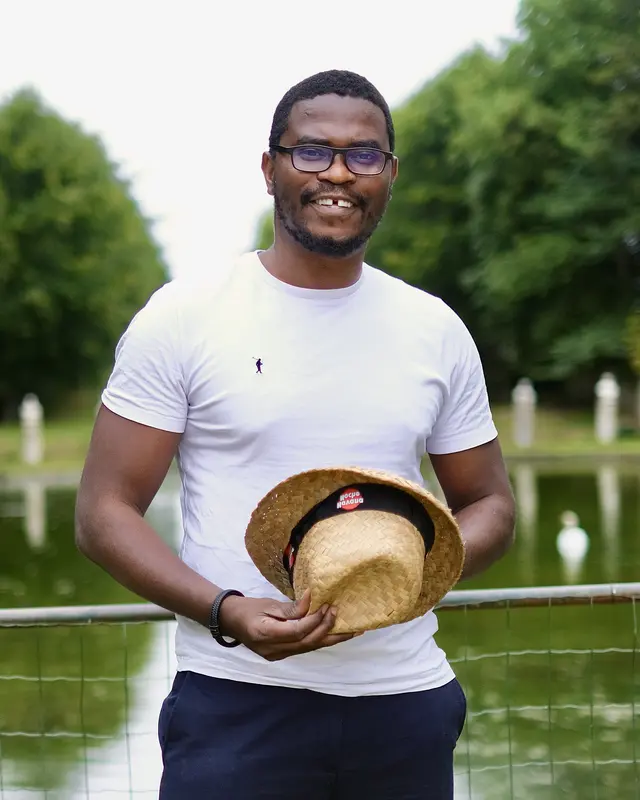
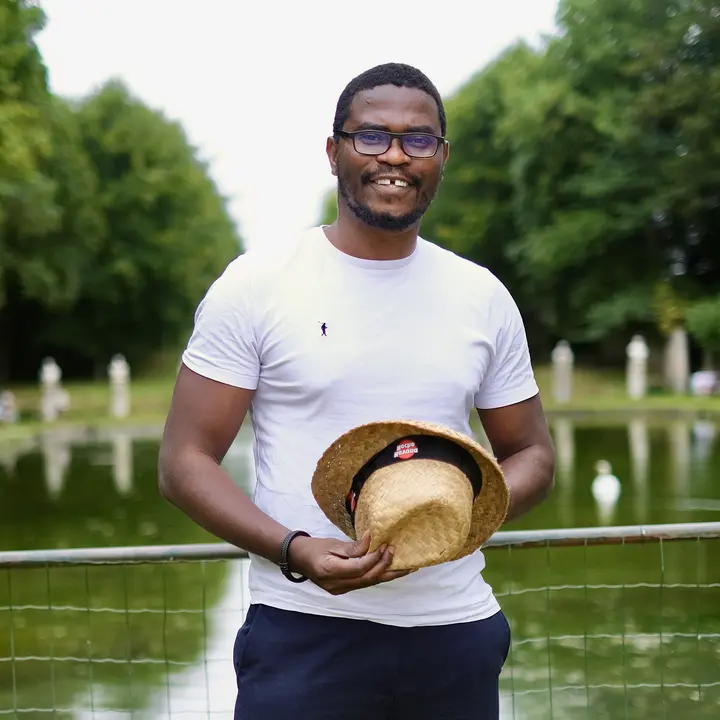
Profile photo: wide square crop that keeps the background
Claude-Session: https://claude.ai/code/session_015tJeZgR2MiLHhgBek5YGbt

diff --git a/index.html b/index.html
@@ -22,7 +22,7 @@
 <main id="main"><div class="wrap">
 <h2 id="home" class="vh">Home</h2>
 <div class="profile">
-<aside class="profile-side" aria-label="Profile" data-render="home-side"><picture><source media="(max-width:760px)" srcset="assets/hope-donglo-square.webp" width="240" height="240"><img class="photo" src="assets/hope-donglo-portrait.webp" width="640" height="800" alt="Hope Donglo smiling outdoors in glasses and a white T-shirt, holding a straw hat, with a pond and trees behind"></picture><p class="name">Hope Donglo</p><p class="role">Lecturer in Physics</p><ul class="side-links"><li><a href="https://scholar.google.com/citations?user=QW32BboAAAAJ&amp;hl=en" rel="noopener">Google Scholar ↗</a></li><li><a href="https://orcid.org/0009-0003-6142-8780" rel="noopener">ORCID ↗</a></li><li><a href="https://github.com/hhdonglo" rel="noopener">GitHub ↗</a></li><li><a href="https://www.linkedin.com/in/hopedonglo" rel="noopener">LinkedIn ↗</a></li><li><a href="cv.html">CV</a></li></ul></aside>
+<aside class="profile-side" aria-label="Profile" data-render="home-side"><img class="photo" src="assets/hope-donglo-portrait.webp" width="720" height="720" alt="Hope Donglo smiling outdoors in glasses and a white T-shirt, holding a straw hat, with a pond and trees behind"><p class="name">Hope Donglo</p><p class="role">Lecturer in Physics</p><ul class="side-links"><li><a href="https://scholar.google.com/citations?user=QW32BboAAAAJ&amp;hl=en" rel="noopener">Google Scholar ↗</a></li><li><a href="https://orcid.org/0009-0003-6142-8780" rel="noopener">ORCID ↗</a></li><li><a href="https://github.com/hhdonglo" rel="noopener">GitHub ↗</a></li><li><a href="https://www.linkedin.com/in/hopedonglo" rel="noopener">LinkedIn ↗</a></li><li><a href="cv.html">CV</a></li></ul></aside>
 <div class="profile-main">
 <section id="about" aria-label="About" data-render="home-intro"><article class="ov-card lead-card"><p class="intro">I am a Lecturer in the Department of Physics at the University of Ghana and a theoretical nuclear physicist. I earned a PhD in Theoretical Nuclear Physics from Université de Caen Normandie, France, as a Marie Skłodowska-Curie COFUND Fellow within the CEA NUMERICS doctoral programme. Prior to this, I completed an Erasmus Mundus Joint Master's in Nuclear Physics across universities in Spain, Italy, and France.</p><p class="intro">My research focuses on superheavy-element synthesis, nuclear reaction modelling, uncertainty quantification, and scientific computing. I study heavy-ion reactions and compound-nucleus formation, and contribute to the development of the KEWPIE3 code for fusion-evaporation reaction studies. My interests also include scientific software development, data science, machine learning, and data engineering.</p></article></section>
 <div class="highlights" data-render="home-highlights"><article class="ov-card"><h2 class="h4">Superheavy-Element Synthesis</h2><p>Research on the reaction mechanisms governing the synthesis of superheavy elements, including heavy-ion fusion, compound-nucleus formation, and uncertainty quantification in reaction models.</p><p><a class="btn" href="research.html">Explore Research</a></p></article><article class="ov-card"><h2 class="h4">Data Engineering and Scientific Computing</h2><p>Development of data pipelines, scientific software, computational workflows, and machine learning applications for research and analytics.</p><p><a class="btn" href="data-engineering.html">Explore Data Science, ML and Engineering</a></p></article></div>

diff --git a/assets/render.js b/assets/render.js
@@ -163,7 +163,7 @@ R.page=function(el,d,site){
 };
 /* ---- home page ---- */
 R["home-side"]=function(el,d,site){
-  el.innerHTML='<picture><source media="(max-width:760px)" srcset="assets/hope-donglo-square.webp" width="240" height="240"><img class="photo" src="assets/hope-donglo-portrait.webp" width="640" height="800" alt="Hope Donglo smiling outdoors in glasses and a white T-shirt, holding a straw hat, with a pond and trees behind"></picture><p class="name">'+md(d.eyebrow)+'</p><p class="role">'+md(d.role)+'</p>'+(d.affiliation?'<p class="role">'+md(d.affiliation)+'</p>':"")+'<ul class="side-links">'+site.profiles.map(function(p){return '<li>'+link(p.url,esc(p.label)+" &#8599;",true)+'</li>'}).concat((d.side_links||[]).map(function(l){return '<li>'+link(l.url,esc(l.label))+'</li>'})).join("")+'</ul>';
+  el.innerHTML='<img class="photo" src="assets/hope-donglo-portrait.webp" width="720" height="720" alt="Hope Donglo smiling outdoors in glasses and a white T-shirt, holding a straw hat, with a pond and trees behind"><p class="name">'+md(d.eyebrow)+'</p><p class="role">'+md(d.role)+'</p>'+(d.affiliation?'<p class="role">'+md(d.affiliation)+'</p>':"")+'<ul class="side-links">'+site.profiles.map(function(p){return '<li>'+link(p.url,esc(p.label)+" &#8599;",true)+'</li>'}).concat((d.side_links||[]).map(function(l){return '<li>'+link(l.url,esc(l.label))+'</li>'})).join("")+'</ul>';
 };
 R["home-statement"]=function(el,d){el.innerHTML=md(d.statement)};
 R["home-working"]=function(el,d){el.innerHTML='<h2 class="h3" id="working">'+md(d.working_title)+'</h2><div class="working-cols">'+d.working.map(function(g){return '<div><h3 class="h4"><a href="'+esc(g.url)+'">'+md(g.title)+'</a></h3><ul>'+g.items.map(function(i){return '<li>'+link(i.url,esc(i.label))+'</li>'}).join("")+'</ul></div>'}).join("")+'</div>'};

diff --git a/assets/site.css b/assets/site.css
@@ -453,11 +453,13 @@ nav.jump.js .sub a{padding-left:2rem;border-top:1px solid var(--border);white-sp
 /* phone: compact profile row */
 @media (max-width:760px){
 .profile{margin-top:.8rem;gap:.9rem}
-.profile-side{display:grid;grid-template-columns:104px 1fr;column-gap:1rem;align-content:start;align-items:center}
-.profile-side picture{grid-column:1;grid-row:1/span 3;display:block}.profile-side .photo{width:104px;height:104px;max-width:none;object-fit:cover;object-position:center;border-radius:12px}
+.profile-side{display:grid;grid-template-columns:120px 1fr;column-gap:1rem;align-content:start;align-items:center}
+.profile-side .photo{grid-column:1;grid-row:1/span 3;width:120px;height:120px;max-width:none;object-fit:cover;object-position:center;border-radius:12px}
 .profile-side .name,.profile-side .role{grid-column:2;margin:0}
 .profile-side .name{font-size:1.2rem;align-self:end}
 .profile-side .role+.role{margin-top:0}
 .profile-side .role:nth-of-type(2){align-self:start}
 .profile-side .side-links{grid-column:1/-1;display:flex;flex-wrap:wrap;gap:0 .9rem;margin:.5rem 0 0;padding:0;list-style:none}
 }
+
+.profile-side .photo{aspect-ratio:1/1;object-fit:cover}
